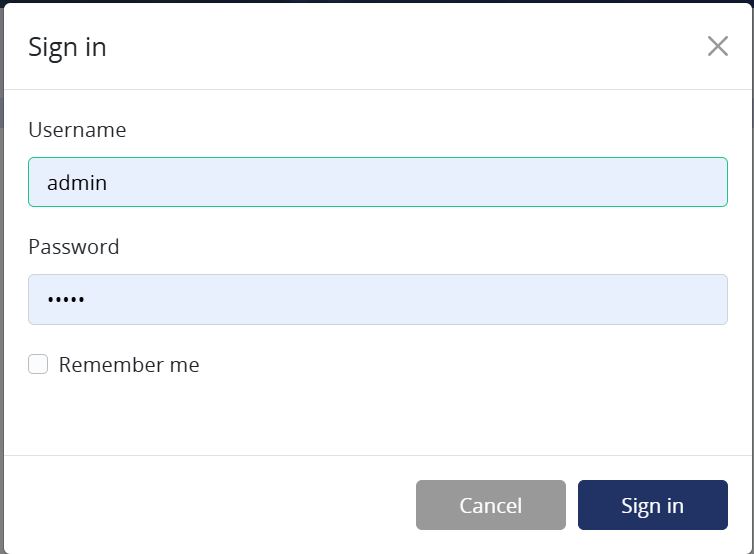
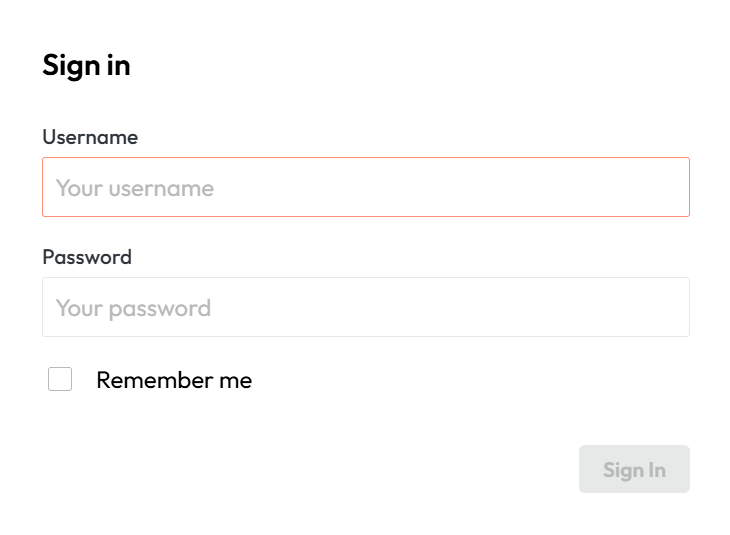
login and admin page update

diff --git a/docs/admin.md b/docs/admin.md
@@ -3,20 +3,26 @@ When the admin role is assigned to a user in the AST Control Panel, they gain ac
 This menu provides various administrative functionalities, including user management, system metrics, health status, log management, 
 application configuration, database management and API documentation.
 
-![admin_menu.png](assets/AdminDocu/dropdown.png)
-<figcaption>Admin menu dropdown</figcaption>
+
+You can access the menu by clicking the cogwheel icon in the upper right corner of the control panel interface:
+![admin.png](assets/AdminDocu/admin.png)
+<figcaption>Admin menu access</figcaption>
+
+After clicking the icon, you will be redirected to the admin page where you can use the navigation panel on the left side to access different administrative functionalities.
+![admin-sidebar.png](assets/AdminDocu/admin-sidebar.png)
+<figcaption>Administration navigation panel</figcaption>
 
 ### User management
 As an administrator, you can access the User Role Maintenance to change roles of other existing users, delete them, or create new users and assign them a password and roles .
 
 Click admin dropdown in the upper right panel and select User management.
 
-![users list.png](assets/ControlPanelDocu/users%20list.png)
+![users list.png](assets/AdminDocu/users-list.png)
 <figcaption>User management interface. </figcaption>
 
-Click create a new user or use buttons next to respective user in table to change details.
+To create a new user use the Click new user button. To edit details of current user click the row of the table and a user details dialog will open where you can edit.
 
-![create_user.png](assets/UserDocumentationM/create_user.png)
+![create_user.png](assets/AdminDocu/create_user.png)
 <figcaption>User Role Maintenance interface. </figcaption>
 This view allows an administrator to define login credentials and assign access roles (e.g., ROLE_ADMIN, ROLE_USER) for the control panel.
 Each role will have access to the corresponding view.
@@ -66,8 +72,7 @@ In the application configuration section you can set up various properties:
 | ast-control-panel.execution.max-parallel-processes   | The number of maximum parallel processes for test execution. This is used to limit the number of parallel executions that can be run at the same time. If the number of scheduled executions exceeds this number, the additional executions will be queued until a slot is available. |
 | ast-control-panel.integration.alm.enabled            | Flag to enable or disable the ALM integration. If true more options will be available in the configuration for ALM integration. For more details on ALM integration see [ALM integration](alm.md) documentation.                                                                      |
 | ast-control-panel.integration.xray.enabled           | Flag to enable or disable the Xray integration. If true more options will be available in the configuration for Xray integration. For more details on Xray integration see [Xray integration](jira_xray.md) documentation.                                                            |
-| ast-control-panel.user-interface.header-color        | Property to set up the color of the header in the control panel. You can use any valid CSS hex color value for this property.                                                                                                                                                         |
-| ast-control-panel.user-interface.header-text-color   | Property to set up the color of the text in the header in the control panel. You can use any valid CSS hex color value for this property.                                                                                                                                             |
+| ast-control-panel.user-interface.header-color        | Property to set up the color of the ribbon under the header in the control panel. You can choose from 6 predefined header ribbon colors.                                                                                                                                              | |
 
 The override checkbox must be selected to use the value you set up, otherwise the default value will be used. Default values are set up in the application db.
 
@@ -92,10 +97,7 @@ The executions are deleted in batches, so you can select the batch size for dele
 This is configurable via the environment variable `ast-control-panel.maintenance.max-executions-to-delete-per-batch`. Info on setting up environment variables can be found [here](deployment.md#setting-up-environment-variables).
 
 After selecting the date you can press the delete button then a confirmation dialog will be displayed which informs you about the number of executions that will be deleted and the date before which the executions will be deleted.
-After confirming the deletion, the deletion process will start and you will see a progress bar with the progress of the deletion (see screenshot below)
-
-![maintenance-progress-bar.png](assets/AdminDocu/maintenance-progress-bar.png)
-<figcaption>Deletion progress bar. </figcaption>
+After confirming the deletion, the deletion process will start and you will see a progress bar with the progress of the deletion.
 
 !!! warning "Important"
     Deletion of executions is irreversible, so please be careful when selecting the date and confirming the deletion. 
@@ -115,4 +117,4 @@ The deletion process is performed asynchronously in the background, so you can c
 The API tab provides access to the REST API documentation and allows you to test API endpoints directly from the control panel.
 
 The first APIs are the management ones. To see the solution API documentation you need to select the "springdocDefault" option from the dropdown:
-![api.png](assets/ControlPanelDocu/api_dropdown.png)
+![api.png](assets/AdminDocu/api_dropdown.png)